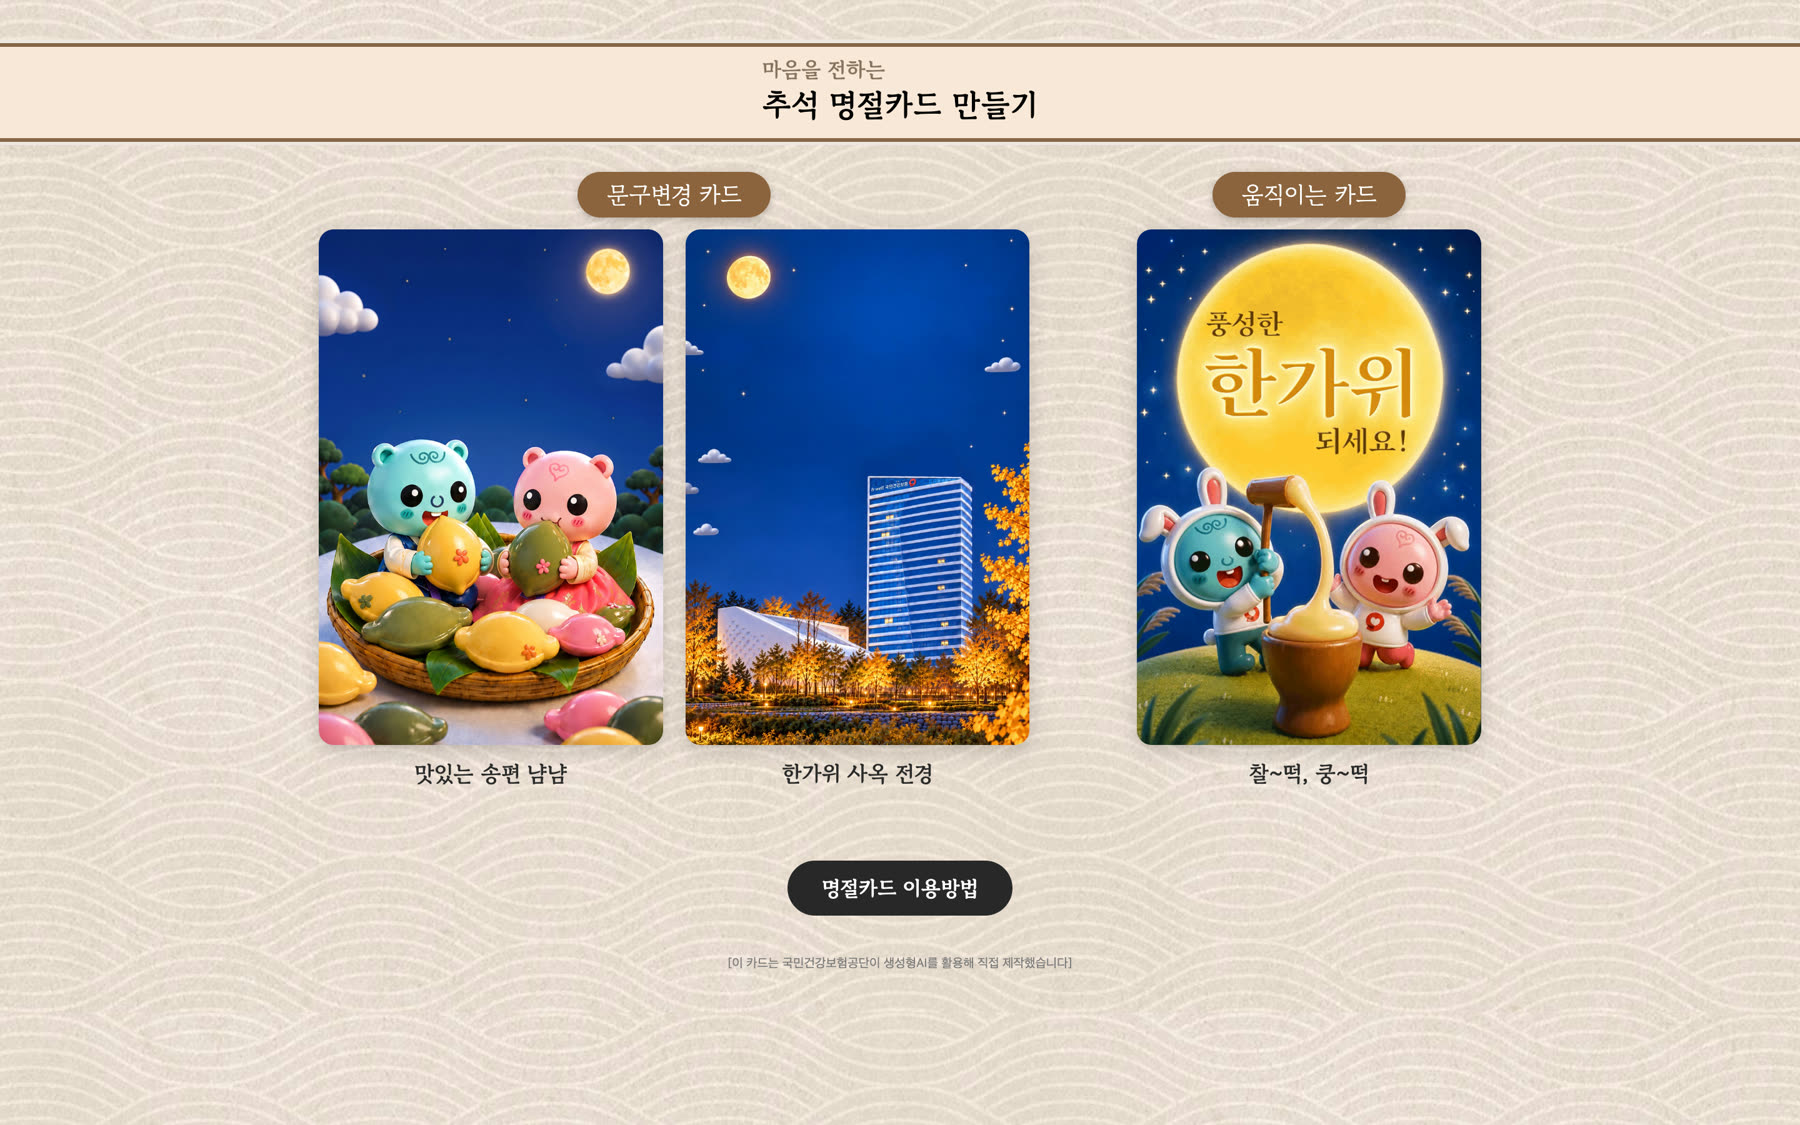
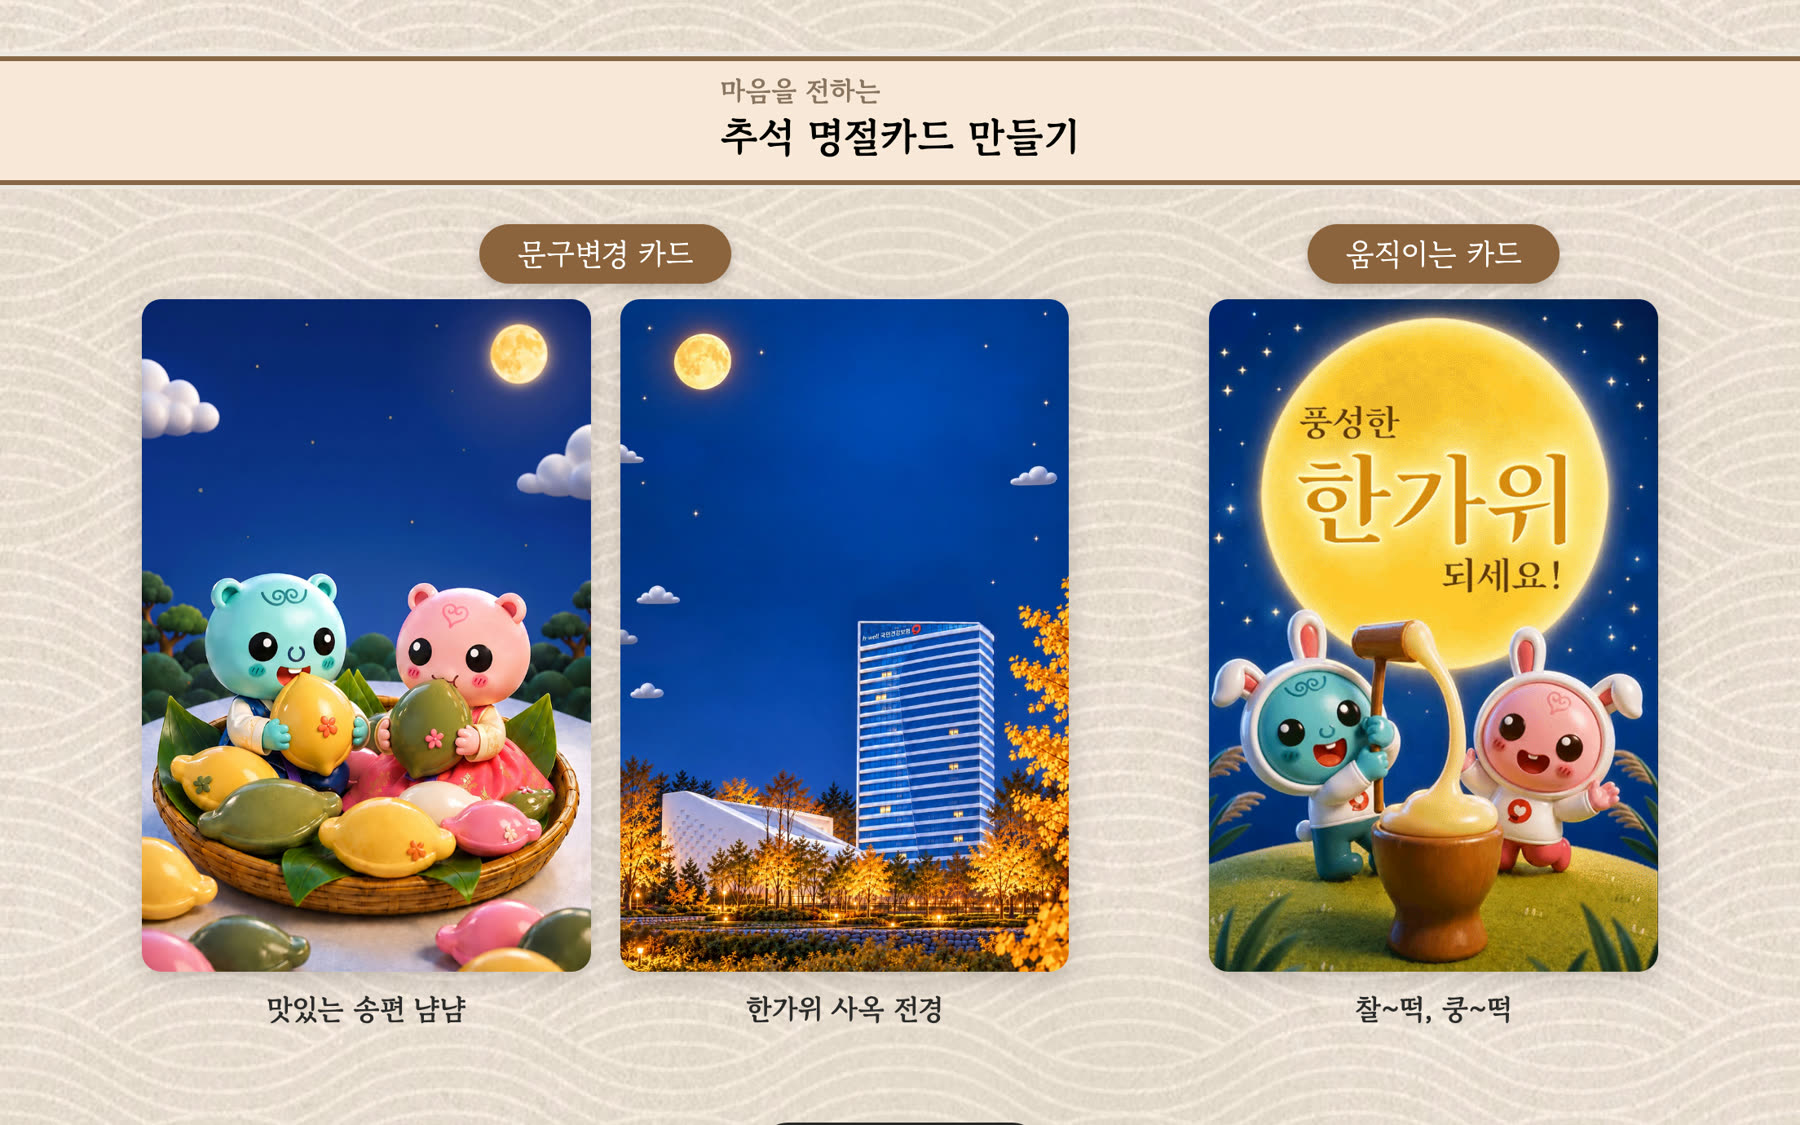
fix: 썸네일 구도와 캡처 여백 정리
- 명절카드 썸네일이 위로 쏠려 있었다. 화면 전체를 그대로 줄인 탓에
  아래쪽 빈 배경이 그대로 들어갔다. 카드 세 장을 기준으로 잘라 중앙에 맞춘다
- 청첩장 본문 캡처 아래 검은 띠 제거. 문서 끝의 어두운 배경이 딸려 왔었다
- 계좌 화면을 폰 프레임으로 줄였다. 큰 판으로 두니 과했다

diff --git a/work/wedding.html b/work/wedding.html
@@ -119,11 +119,11 @@
               <img src="/assets/img/wed_gallery.jpg" alt="사진 갤러리 — 누르면 크게 보입니다" />
             </div>
             <p class="gallery__cap">사진을 누르면 라이트박스로 크게 열립니다 — 공개용이라 퍼블릭 도메인 전통 회화로 바꿔 두었습니다</p>
-            <div class="frame" style="margin-top:22px">
+            <div class="frame frame--phone" style="margin-top:22px">
               <div class="frame__bar"><span class="dot"></span><span class="dot"></span><span class="dot"></span><span class="frame__url">마음 전하실 곳</span></div>
-              <img src="/assets/img/wed_gift.jpg" alt="신랑측·신부측 계좌 안내와 복사 버튼" />
+              <img src="/assets/img/wed_gift.jpg" alt="신랑측·신부측 계좌 안내와 복사" />
             </div>
-            <p class="gallery__cap">계좌번호 옆 아이콘으로 복사 — 클립보드가 막히는 환경까지 대비했습니다</p>
+            <p class="gallery__cap">계좌번호를 누르면 복사 — 클립보드가 막히는 환경까지 대비했습니다</p>
           </div>
         </div>
 
